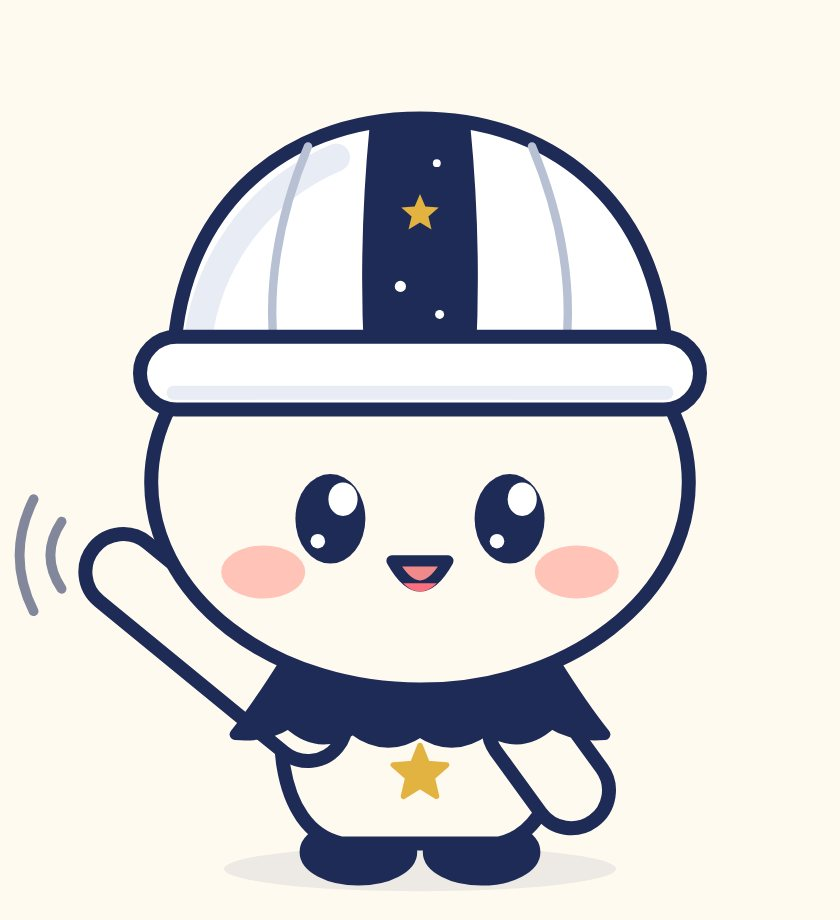
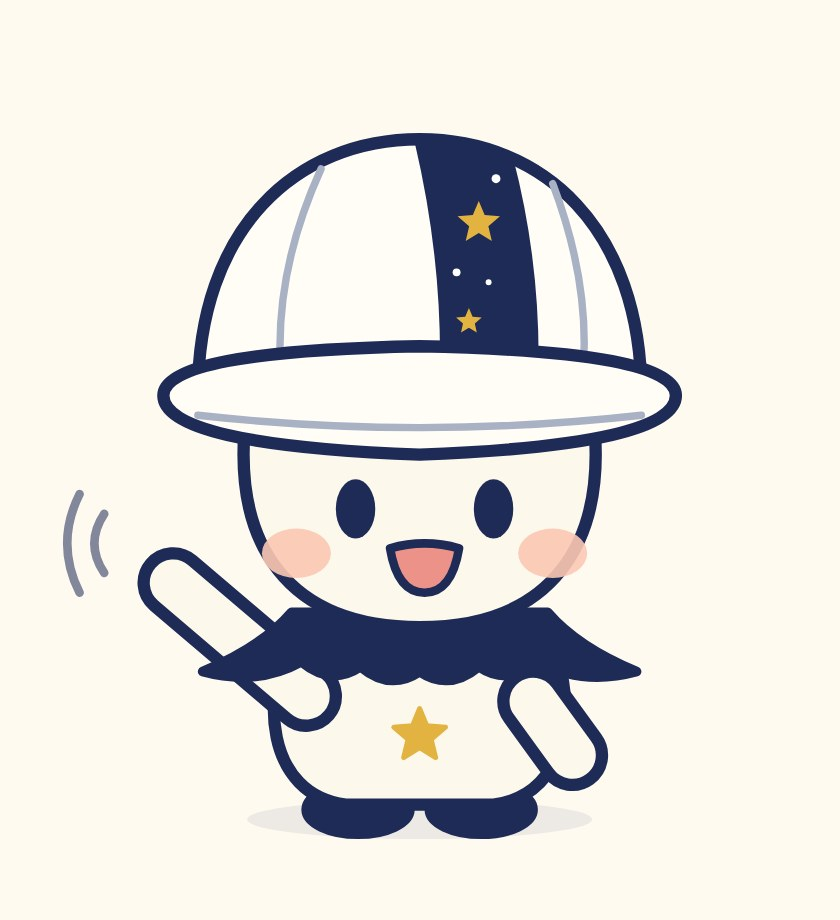
Redraw Nichiharan from the new character sheet.
The generator now follows the provided design: off-center navy slit with
stars always inside, thick brim, scalloped navy collar with cape tails
and oval eyes. Adds a seventh pose for the catchphrase and refreshes the
top and about page mascot images.

Claude-Session: https://claude.ai/code/session_012FDEmQ2sqb5v1Ud53WoN39

Changed region(s): [[0.0, 0.1217, 0.8667, 0.9739]]

diff --git a/docs/06-mascot.md b/docs/06-mascot.md
@@ -10,12 +10,32 @@
 
 ## 最新案:にちはらん
 
-ご提案いただいたデザイン(ドームの帽子・紺のケープ襟・胸の金の星・紺の足、キャッチコピー「いっしょに、宇宙をのぞこ!」)をもとに、「もっと可愛く」の方針でブラッシュアップしたもの。
+新田さん提供のキャラクター案(2026-10-21、`mascot/nichiharan/reference-v2.webp`)をもとに、サイト用のポーズを SVG で描き起こしたもの。
+
+- ドームの帽子:右寄りの紺のスリット、太いつば。**スリットの中にはいつも金の星と星粒を描く**
+- 顔:たて長の紺の目、横長のピーチ色のほっぺ、開いた口
+- 波形のふちの紺の襟と、左右にのびるマントの裾。胸に金の星、紺の足
+- キャッチコピー「いっしょに、宇宙をのぞこ!」、口ぐせ「今日は晴れるかなぁ」(新田さん指定)
 
 ![にちはらん キャラクターシート](mascot/nichiharan/sheet.png)
 
-| 変更点 | 元案 | ブラッシュアップ後 |
-| --- | --- | --- |
+| ファイル | 用途 |
+| --- | --- |
+| `mascot/nichiharan/wave.svg` | こんばんは!(基本) |
+| `mascot/nichiharan/telescope.svg` | 観望ガイド |
+| `mascot/nichiharan/cheer.svg` | 今夜は開催! |
+| `mascot/nichiharan/hareru.svg` | 口ぐせ「今日は晴れるかなぁ」 |
+| `mascot/nichiharan/sleep.svg` | 休館日・おやすみ |
+| `mascot/nichiharan/cancelled.svg` | くもりで中止… |
+| `mascot/nichiharan/wish.svg` | 願い星★宅配便 |
+| `mascot/nichiharan/reference-v2.webp` | 新田さん提供のキャラクター案(最新) |
+| `mascot/nichiharan/reference-original.webp` | 最初にご提案いただいた元画像 |
+
+SVG は `node docs/mascot/nichiharan.mjs` で作り直せる(色は `COLORS`、ポーズは `VARIANTS`)。作り直したら `public/images/nichiharan/` にコピーし、トップ・天文台についての `public/images/nichiharan-wave.jpg` `nichiharan-scope.jpg` も書き出し直す。
+プロフィールと一日の過ごし方は `src/pages/nichiharan.astro` にある。
+名前「にちはらん」は、2026-10 の検索で同名キャラクターは見つからなかった。商標(J-PlatPat)の確認は別途必要。
+
+--- | --- | --- |
 | 頭身 | 約2.5頭身 | **2頭身**。頭(ドーム)を大きく、体はちいさく |
 | 目 | 縦長の点目 | 顔の**低め**に大きく、**ハイライト2つ**でうるっと |
 | ほっぺ | 丸 | **横長**のやわらかいピーチ色 |
